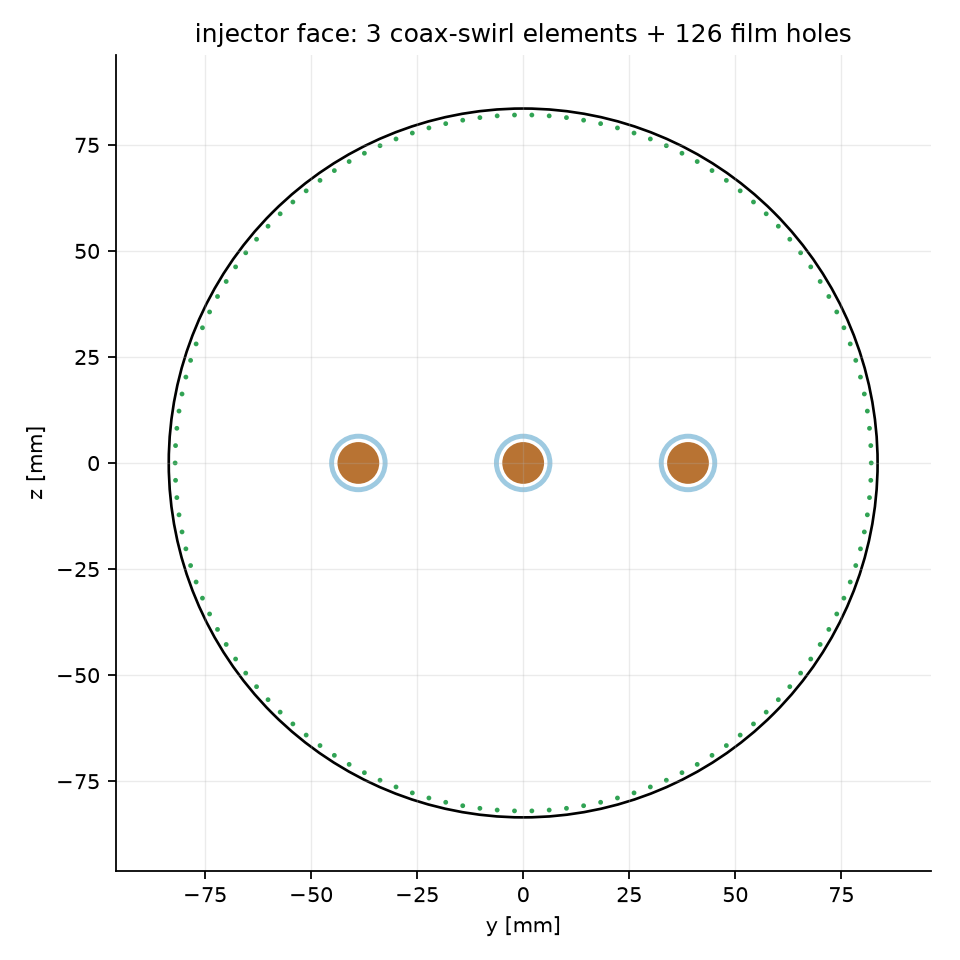
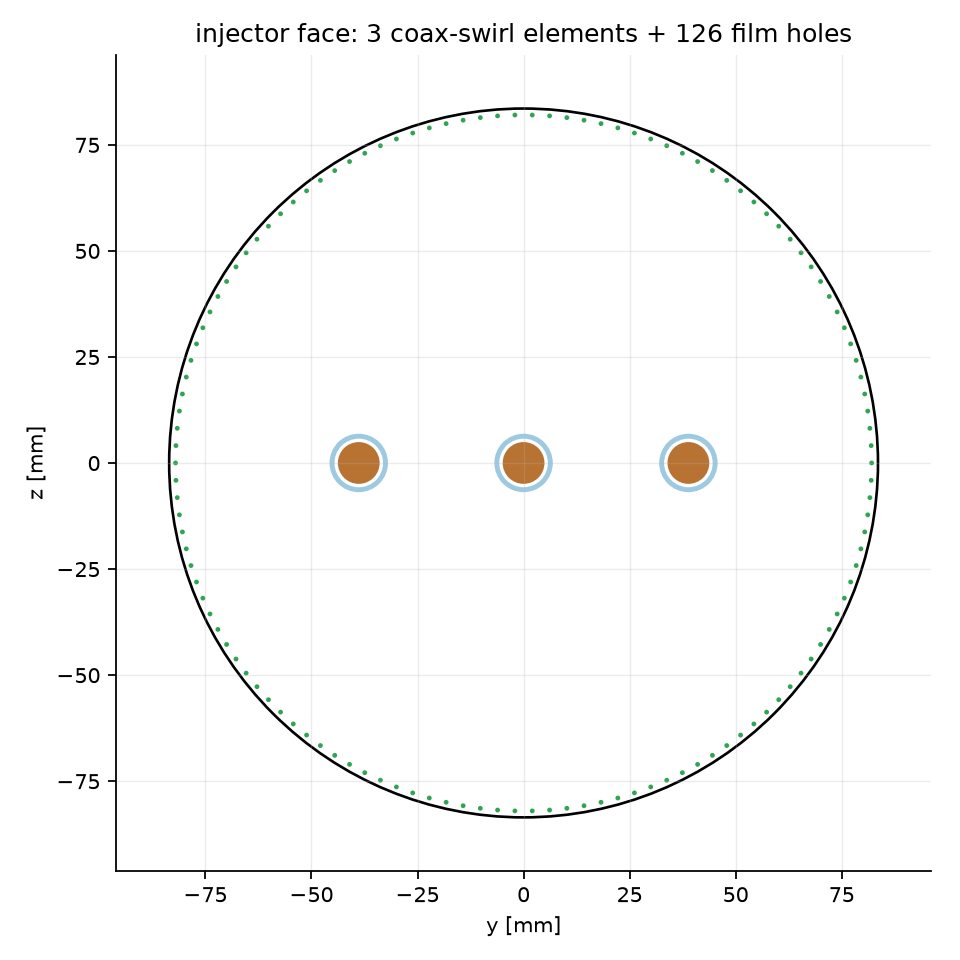
Fix spurious warnings: process-aware manufacturability + tight_layout
The report warned "channel width < 0.8 mm: needs additive manufacturing"
even though the design deliberately selects LPBF (which *is* additive
manufacturing) — the check compared against conventional-machining limits,
process-blind. Make it process-aware: a feature that meets the selected
process's own floor is manufacturable by that process, so it's shown as an
informational note ("requires LPBF — as intended for this process"), not a
warning. Only a feature below the selected process floor is a real warning.
Injector modeling caveats (gas-like supercritical fuel, low-Re) move to the
same notes section. The 5 kN demo now reports zero warnings.

Also silence the matplotlib "figure layout has changed to tight" UserWarnings
by setting layout="tight" at figure creation instead of calling
fig.tight_layout() after the fact.

Adds tests asserting the manufacturability split is process-aware and the
report carries no spurious Warnings section. 180 unit tests pass.

Claude-Session: https://claude.ai/code/session_01HvRtEtoDEhCXBHK53gL2KT

diff --git a/cryosim/design_report.py b/cryosim/design_report.py
@@ -27,7 +27,7 @@ matplotlib.use("Agg")
 import matplotlib.pyplot as plt
 import numpy as np
 
-from .engine_design import EngineDesign, LINER_MATERIALS
+from .engine_design import EngineDesign, LINER_MATERIALS, PROCESSES
 from .plots import plot_regen_distribution
 from .voxel_geometry import (MeshQA, build_chamber_jacket,
                              build_injector_head, concat_meshes, mesh_qa,
@@ -50,7 +50,7 @@ def draw_cross_section(design: EngineDesign, path: str) -> None:
     t_w, h = ch.t_wall * 1e3, ch.channel_height * 1e3
     t_c = design.t_closeout * 1e3
 
-    fig, ax = plt.subplots(figsize=(9, 5))
+    fig, ax = plt.subplots(figsize=(9, 5), layout="tight")
     for sgn in (+1, -1):
         ax.fill_between(x, sgn * r, sgn * (r + t_w),
                         color="#b87333", label="liner (hot wall)"
@@ -81,7 +81,6 @@ def draw_cross_section(design: EngineDesign, path: str) -> None:
                  f"{design.spec.thrust/1e3:.1f} kN {design.spec.propellants}")
     ax.legend(loc="upper right", fontsize=8)
     ax.set_aspect("equal")
-    fig.tight_layout()
     fig.savefig(path, dpi=160)
     plt.close(fig)
 
@@ -89,7 +88,7 @@ def draw_cross_section(design: EngineDesign, path: str) -> None:
 def draw_injector_face(design: EngineDesign, path: str) -> None:
     inj = design.injector
     e, a = inj.element, inj.annulus
-    fig, ax = plt.subplots(figsize=(6, 6))
+    fig, ax = plt.subplots(figsize=(6, 6), layout="tight")
     ax.add_patch(plt.Circle((0, 0), inj.face_radius * 1e3, fill=False,
                             color="k", lw=1.2))
     for r_ring, n_on in inj.rings:
@@ -119,7 +118,6 @@ def draw_injector_face(design: EngineDesign, path: str) -> None:
     ax.set_xlim(-lim, lim)
     ax.set_ylim(-lim, lim)
     ax.set_aspect("equal")
-    fig.tight_layout()
     fig.savefig(path, dpi=160)
     plt.close(fig)
 
@@ -205,6 +203,51 @@ def generate_package(design: EngineDesign, outdir: str,
     return paths
 
 
+#: Conventional-machining fine-feature thresholds [m] (below → needs a
+#: fine-feature process such as LPBF; used only to frame the notes).
+_CONVENTIONAL = {"channel width": 0.8e-3, "hot wall": 0.5e-3,
+                 "throat land": 0.8e-3}
+
+#: injector-warning substrings that are modeling caveats, not defects.
+_MODEL_CAVEATS = ("approximate", "gas-like", "viscous losses", "Re ")
+
+
+def _manufacturability(design: EngineDesign) -> tuple[list, list]:
+    """Split manufacturability into genuine warnings vs process notes.
+
+    Process-aware: a feature that meets the *selected* process's floor is
+    manufacturable by that process, so it becomes an informational note
+    ("requires LPBF") rather than a warning — the design deliberately targets
+    LPBF, so flagging "needs additive manufacturing" would be spurious. Only a
+    feature below the selected process's own floor is a real warning.
+    """
+    proc = PROCESSES[design.spec.process]
+    pname = design.spec.process.upper()
+    ch = design.channel_design.channels
+    feats = [
+        ("channel width", ch.channel_width, proc["min_channel_width"]),
+        ("hot wall", ch.t_wall, proc["min_wall"]),
+        ("throat land", design.channel_design.land_at_throat,
+         proc["min_land"]),
+    ]
+    warnings, notes = [], []
+    for name, val, floor in feats:
+        if val < floor - 1e-9:
+            warnings.append(
+                f"{name} {val*1e3:.2f} mm is below the {pname} floor "
+                f"({floor*1e3:.2f} mm) — infeasible as-is")
+        elif val < _CONVENTIONAL[name]:
+            notes.append(
+                f"{name} {val*1e3:.2f} mm requires {pname} (below the "
+                f"{_CONVENTIONAL[name]*1e3:.1f} mm conventional-machining "
+                "limit — as intended for this process)")
+    # injector: separate real issues from modeling caveats
+    for w in design.injector.warnings:
+        (notes if any(s in w for s in _MODEL_CAVEATS)
+         else warnings).append(w)
+    return warnings, notes
+
+
 def render_report(design: EngineDesign, qa: list[MeshQA],
                   with_geometry: bool) -> str:
     s = design.spec
@@ -230,11 +273,14 @@ def render_report(design: EngineDesign, qa: list[MeshQA],
         mark = "✅" if item.ok else "❌"
         lines.append(f"- {mark} **{item.name}**: {item.value} "
                      f"(requirement: {item.requirement})")
-    warns = design.channel_design.manufacturability_warnings \
-        + design.injector.warnings
-    if warns:
+    warnings, notes = _manufacturability(design)
+    if warnings:
         lines += ["", "## Warnings", ""]
-        lines += [f"- ⚠ {w}" for w in warns]
+        lines += [f"- ⚠ {w}" for w in warnings]
+    if notes:
+        lines += ["", f"## Manufacturing & modeling notes "
+                  f"(process: {design.spec.process.upper()})", ""]
+        lines += [f"- {n}" for n in notes]
     if with_geometry:
         lines += ["", "## Generated geometry (binary STL, mm)", ""]
         for q in qa:

diff --git a/tests/test_engine_design.py b/tests/test_engine_design.py
@@ -133,6 +133,27 @@ def test_infeasible_design_fails_loudly():
         design_engine(spec, **FAST)
 
 
+def test_manufacturability_is_process_aware(demo):
+    """LPBF-manufacturable features become notes, not warnings; a genuine
+    sub-floor feature would be a warning."""
+    from cryosim.design_report import _manufacturability
+    warnings, notes = _manufacturability(demo)
+    # the shipped LPBF design meets every LPBF floor -> no hard warnings
+    assert warnings == []
+    # sub-conventional (but LPBF-fine) features are surfaced as notes, and
+    # never claim to "need additive manufacturing" (LPBF already is that)
+    joined = " ".join(notes)
+    assert "requires LPBF" in joined
+    assert "needs micro-milling" not in joined
+
+
+def test_report_has_no_spurious_warnings_section(demo):
+    from cryosim.design_report import render_report
+    md = render_report(demo, [], with_geometry=False)
+    assert "## Warnings" not in md
+    assert "Manufacturing & modeling notes" in md
+
+
 def test_example_spec_parses():
     spec = EngineSpec.from_yaml("examples/engine_5kn_methalox.yaml")
     assert spec.thrust == 5e3
